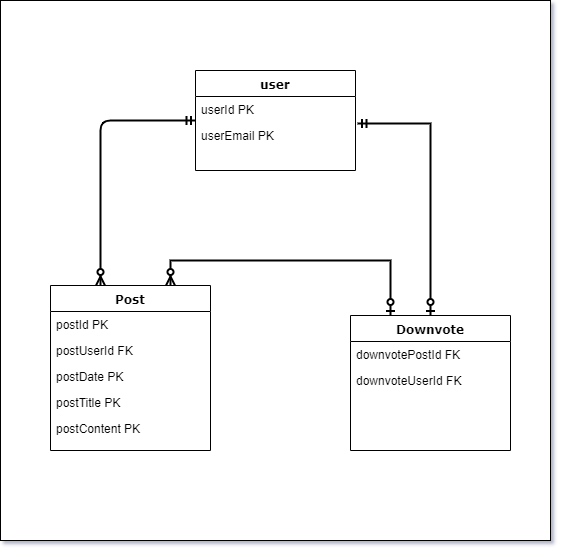
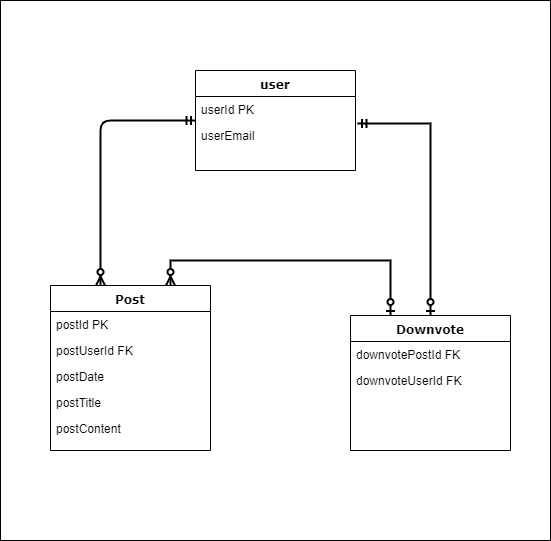
reformatted conceptual model and design diagram. by removing extra keys and removing incorrect primary/foriegn key tags

Changed region(s): [[0.0617, 0.1183, 0.9256, 0.8281], [0.0, 0.0, 1.0, 1.0]]

diff --git a/epic/conceptual-model.html b/epic/conceptual-model.html
@@ -27,25 +27,6 @@
 				<li>postContent</li>
 			</ul>
 		</div>
-		<p>Comments:</p>
-		<div class="center">
-			<ul>
-				<li>commentId</li>
-				<li>commentCommentId</li>
-				<li>commentUserId</li>
-				<li>commentPostId</li>
-				<li>commentDate</li>
-				<li>commentContent</li>
-			</ul>
-		</div>
-		<p>Upvotes:</p>
-		<div class="center">
-			<ul>
-				<li>upvotePostId</li>
-				<li>upvoteUserId</li>
-				<li>upvoteCommentId</li>
-			</ul>
-		</div>
 		<p>Downvotes:</p>
 		<div class="center">
 			<ul>
@@ -58,19 +39,9 @@
 		<div class="center">
 			<ul>
 				<li>One <strong>user</strong> can create many <strong>posts</strong> (1 to n)</li>
-				<li>One <strong>user</strong> can create many <strong>comments</strong> (1 to n)</li>
-				<li>One <strong>user</strong> can create many <strong>upvotes</strong> (1 to n)</li>
 				<li>One <strong>user</strong> can create many <strong>downvotes</strong> (1 to n)</li>
-				<li>One <strong>post</strong> can have many <strong>comments</strong> (1 to n)</li>
-				<li>One <strong>post</strong> can have many <strong>upvotes</strong> (1 to n)</li>
 				<li>One <strong>post</strong> can have many <strong>downvotes</strong> (1 to n)</li>
-				<li>One <strong>comment</strong> can have many <strong>upvotes</strong> (1 to n)</li>
-				<li>One <strong>comment</strong> can have many <strong>downvotes</strong> (1 to n)</li>
-				<li>One <strong>comment</strong> can have many <strong>comments</strong> (1 to n)</li>
-				<li>Many <strong>posts</strong> can be upvoted by many <strong>users</strong> (m to n)</li>
-				<li>Many <strong>comments</strong> can be upvoted by many <strong>users</strong> (m to n)</li>
 				<li>Many <strong>posts</strong> can be downvoted by many <strong>users</strong> (m to n)</li>
-				<li>Many <strong>comments</strong> can be downvoted by many <strong>users</strong> (m to n)</li>
 			</ul>
 		</div>
 		<h2>Entity Relationship Diagram</h2>
